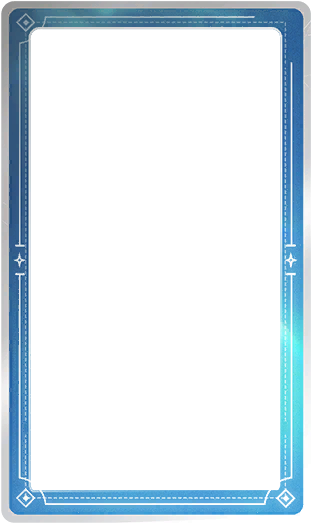
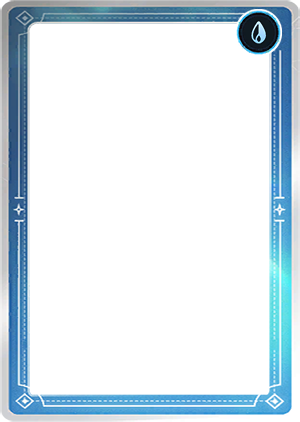
feat(Cards): rep卡远古卡面实现

diff --git a/Patches/KiboAncientVisualPatch.cs b/Patches/KiboAncientVisualPatch.cs
@@ -1,0 +1,98 @@
+using System.Reflection;
+using HarmonyLib;
+using MegaCrit.Sts2.Core.Entities.Cards;
+using MegaCrit.Sts2.Core.Models;
+using MegaCrit.Sts2.Core.Nodes.Cards;
+using STS2RitsuLib.Patching.Models;
+using STS2_Starborn.Cards.Kibo;
+using STS2_Starborn.Cards.Pile;
+
+namespace STS2_Starborn.Patches;
+
+/// <summary>
+/// Patch to make Kibo Rep cards display with Ancient card visuals while keeping Token rarity
+/// 让奇波 Rep 卡以 Ancient 卡的视觉效果显示，但保持 Token 稀有度
+/// Only applies to Rep cards (cards with [RegisterKibo] attribute), not ability cards
+/// 仅应用于 Rep 卡（带有 [RegisterKibo] 属性的卡），不影响技能卡
+/// </summary>
+public class KiboAncientVisualPatch : IPatchMethod
+{
+    public static string PatchId => "sts2_starborn_kibo_ancient_visual";
+    public static string Description => "Make Kibo Rep cards display with Ancient visual style";
+    public static bool IsCritical => false;
+
+    private static FieldInfo? _modelField;
+
+    public static ModPatchTarget[] GetTargets()
+    {
+        _modelField = AccessTools.Field(typeof(NCard), "_model");
+        return
+        [
+            new(typeof(NCard), "Reload", [])
+        ];
+    }
+
+    /// <summary>
+    /// Prefix to temporarily change Kibo Rep card rarity to Ancient during Reload
+    /// </summary>
+    public static void Prefix(NCard __instance, out CardRarity? __state)
+    {
+        __state = null;
+
+        if (_modelField == null)
+            return;
+
+        var model = _modelField.GetValue(__instance) as CardModel;
+        if (model == null)
+            return;
+
+        // Check if this is a Kibo Rep card
+        if (IsKiboRepCard(model))
+        {
+            // Store original rarity
+            __state = model.Rarity;
+
+            // Temporarily change to Ancient for visual rendering
+            // This is a hack but it's the cleanest way to make NCard render it as Ancient
+            var rarityField = AccessTools.Field(typeof(CardModel), "<Rarity>k__BackingField");
+            if (rarityField != null)
+            {
+                rarityField.SetValue(model, CardRarity.Ancient);
+            }
+        }
+    }
+
+    /// <summary>
+    /// Postfix to restore original rarity after Reload
+    /// </summary>
+    public static void Postfix(NCard __instance, CardRarity? __state)
+    {
+        if (__state == null || _modelField == null)
+            return;
+
+        var model = _modelField.GetValue(__instance) as CardModel;
+        if (model == null)
+            return;
+
+        // Restore original rarity
+        var rarityField = AccessTools.Field(typeof(CardModel), "<Rarity>k__BackingField");
+        if (rarityField != null)
+        {
+            rarityField.SetValue(model, __state.Value);
+        }
+    }
+
+    /// <summary>
+    /// Check if the card model is a Kibo Rep card (not an ability card)
+    /// 检查卡牌是否为奇波 Rep 卡（而非技能卡）
+    /// </summary>
+    private static bool IsKiboRepCard(CardModel? model)
+    {
+        if (model is not KiboCard)
+            return false;
+
+        // Use KiboPileManager's method to check if it's a Rep card
+        // Rep cards have the [RegisterKibo] attribute
+        return KiboPileManager.IsRepCardType(model.GetType());
+    }
+}

diff --git a/Relics/StarBoundCardRelic.cs b/Relics/StarBoundCardRelic.cs
@@ -4,7 +4,7 @@ using System.Threading.Tasks;
 using MegaCrit.Sts2.Core.Combat;
 using MegaCrit.Sts2.Core.Commands;
 using MegaCrit.Sts2.Core.Entities.Cards;
-using MegaCrit.Sts2.Core.Entities.Creatures;
+using MegaCrit.Sts2.Core.Entities.Players;
 using MegaCrit.Sts2.Core.Entities.Relics;
 using MegaCrit.Sts2.Core.GameActions.Multiplayer;
 using MegaCrit.Sts2.Core.Localization.DynamicVars;
@@ -18,6 +18,7 @@ using STS2RitsuLib.Scaffolding.Characters;
 using STS2RitsuLib.Scaffolding.Content;
 using STS2_Starborn.Cards;
 using STS2_Starborn.Cards.Kibo;
+using STS2_Starborn.Cards.Event;
 using STS2_Starborn.Cards.Pile;
 using STS2_Starborn.Character;
 using STS2_Starborn.Combat;
@@ -67,26 +68,23 @@ public class StarBoundCardRelic : StarbornRelic, IAutoTriggerListener
         if (!ShouldOverrideForKiboEvent()) return currentEvent;
         return ModelDb.Event<KiboStarterEvent>();
     }
-    public override async Task BeforeCombatStart()
+    public override async Task BeforeHandDraw(
+        Player player, PlayerChoiceContext choiceContext, ICombatState combatState)
     {
+        if (player != base.Owner || base.Owner.PlayerCombatState?.TurnNumber != 1)
+            return;
+
         var data = KiboRunData.Get(base.Owner);
         if (data?.ActiveKiboTypeId == null) return;
         if (!KiboTypeId.TryParse(data.ActiveKiboTypeId, out var typeId)) return;
 
-        var activePile = KiboPileManager.GetActivePile(base.Owner);
-        if (activePile != null && activePile.Cards.Count > 0) return;
+        // 直接召唤：InitializeForCombat 已执行，combat storage 已就绪，不会重复创建
+        await KiboCmd.Summon(choiceContext, base.Owner, typeId);
 
-        // 1. 保留原有的直接召唤逻辑
-        await KiboCmd.Summon(new BlockingPlayerChoiceContext(), base.Owner, typeId);
-
-        // 2. 添加召唤卡到手牌
-        var canonical = ModelDb.GetById<CardModel>(ModelDb.GetId<Cards.Event.SummonStarterKiboCard>());
-        var combatState = base.Owner.Creature.CombatState;
-        if (combatState != null)
-        {
-            var summonCard = combatState.CreateCard(canonical, base.Owner);
-            await CardPileCmd.AddGeneratedCardToCombat(summonCard, PileType.Hand, base.Owner);
-        }
+        // 添加召唤牌到手牌（参考 RadiantPearl 模式）
+        var summonCard = combatState.CreateCard<SummonStarterKiboCard>(base.Owner);
+        await CardPileCmd.AddGeneratedCardsToCombat(
+            new List<CardModel> { summonCard }, PileType.Hand, base.Owner);
     }
 
     // IAutoTriggerListener 实现

diff --git a/Combat/ElementMarkState.cs b/Combat/ElementMarkState.cs
@@ -1,5 +1,6 @@
 using System;
 using MegaCrit.Sts2.Core.Entities.Players;
+using MegaCrit.Sts2.Core.Models;
 using STS2_Starborn.Element;
 
 namespace STS2_Starborn.Combat;
@@ -11,8 +12,7 @@ public static class ElementMarkState
     public const int MaxSealStacks = ElementMarkManager.MaxSealStacks;
     public const int ThresholdStacks = ElementMarkManager.ThresholdStacks;
 
-    private static ElementMarkManager? _manager;
-    internal static ElementMarkManager Manager => _manager ??= new ElementMarkManager();
+    internal static ElementMarkManager Manager => ModelDb.Singleton<ElementMarkManager>();
 
     public static event Action? MarksChanged;
     public static void NotifyMarksChanged() => MarksChanged?.Invoke();

diff --git a/Cards/Uncommon/ConvergeCard.cs b/Cards/Uncommon/ConvergeCard.cs
@@ -22,7 +22,7 @@ public sealed class ConvergeCard() : StarbornCard(
         new CalculationBaseVar(9m),
         new ExtraDamageVar(2m),
         new CalculatedDamageVar(ValueProp.Move).WithMultiplier((_, _) =>
-            ElementMarkManager.GetTuningTotalCount() + ElementMarkManager.GetOverloadTotalCount()),
+            ElementMarkManager.GetTuningTotalCount(Owner) + ElementMarkManager.GetOverloadTotalCount(Owner)),
     ];
 
     protected override async Task OnPlay(PlayerChoiceContext choiceContext, CardPlay cardPlay)

diff --git a/Entry.cs b/Entry.cs
@@ -56,6 +56,7 @@ public class Entry
         patcher.RegisterPatch<KiboLoadPatch>();
         patcher.RegisterPatch<CompactCardGridHoverTipPatch>();
         patcher.RegisterPatch<BurnPowerBloodBarPatch>();
+        patcher.RegisterPatch<KiboAncientVisualPatch>();
 #if DEBUG
         patcher.RegisterPatch<StarbornDebugPanelPatch>();
 #endif

diff --git a/Readme.md b/Readme.md
@@ -53,14 +53,6 @@
 - [x] 远古牌　　　`2 / 2`
 - [x] 事件牌　　　`3 / 3` *（暂定）*
 
-### 遗物
-- [ ] 祖赞卡之梯
-- [ ] 签到本
-- [ ] 哈库茵权戒
-- [ ] 苗鸡玩偶
-- [ ] 飞行鞍具
-- [ ] 其他角色遗物  （还未定）
-
 ### 其他
 - [x] 彩蛋事件
 - [x] 御三家选择事件
@@ -170,7 +162,7 @@
 | 顺风 （Tailwind） | 2 | 能力 | **奇波：森彩灵蝶**。回合开始时**调谐**0风。 | 固有 |
 | 狩猎姿态 （HunterStance） | 1 | 技能 | 本回合你每打出一张攻击牌，获得1层当前主属性。 | 耗能-1 |
 | 不屈之心 （IndomitableHeart） | 2 | 技能 | 如果这张牌在本场战斗首次打出，获得1层缓冲。获得9点格挡。如果怪物的攻击被完全格挡，将其击晕。 | 9 -> 13 |
-| 
+| 误打误撞 （Serendipity） | 0 | 技能 | **奇波：菇噜噜**。选择一张手牌，将其打出并使其费用在0到3之间随机变化。 | **保留** |
 
 
 
@@ -204,18 +196,18 @@
 | 绒心布里尼 （Downybrinny） | -1 | 能力 | Rep卡 |  |
 | 绒心炸弹 （DownyBomb） | 2 | 攻击 | **奇波战技**。获得4层光属性印记。超限1光。 | 4 -> 5 |
 | 隐于彩虹 （HiddenInRainbow） | 1 | 技能 | **奇波特技**。获得1/1当前属性印记。获得2点能量。抽2张牌。随机换上一只**奇波**。 | 3 -> 5 |
-| 迅狼 （Swiftwolf） | 1 | 能力 | Rep卡 |  |
+| 迅狼 （Swiftwolf） | -1 | 能力 | Rep卡 |  |
 | 爪击 （Claw） | 1 | 攻击 | **奇波战技**。对随机一名敌人造成3点伤害。 | 3 -> 4  |
 | 狼嚎 （Howl） | 1 | 技能 | **奇波战技**。下回合使你获得1点临时力量。 | 1 -> 2 |
 | 啃咬 （Gnaw） | 1 | 攻击 | **奇波战技**。对随机一名敌人造成4点伤害。施加1层易伤。 | 1 -> 2 |
 | 围攻 （Pincer） | 1 | 攻击 | **奇波特技**。对随机一名敌人造成3点伤害3次。 | 3伤 -> 4伤 |
-| 覆甲犰 （ArmoredPangolin） | 1 | 能力 | Rep卡 |  |
+| 覆甲犰 （ArmoredPangolin） | -1 | 能力 | Rep卡 |  |
 | 惯性滚动 （InertiaRoll） | 1 | 攻击 | **奇波战技**。造成4点伤害，**弹跳**2次。 | 4 -> 6 | 
 | 滚动火球 （RollingFire） | 1 | 攻击 | **奇波特技**。造成5点伤害，**弹跳**3次。每次造成伤害获得1层火属性印记。 | 4 -> 6 |
-| 蔓灵偶 （VineDoll） | 1 | 能力 | Rep卡 |  |
+| 蔓灵偶 （VineDoll） | -1 | 能力 | Rep卡 |  |
 | 神风 （Kamikaze） | 1 | 技能 | **奇波战技**。对所有敌人造成20点伤害。将蔓灵偶移出战斗。 | 20 -> 30|
 | 强袭 （Verdant） | 1 | 技能 | **奇波特技**。对所有敌人造成30点伤害。将蔓灵偶移出战斗。 | 30 -> 45 |
-| 蔓音花 （MelodiousVine） | 1 | 能力 | Rep卡 |  |
+| 蔓音花 （MelodiousVine） | -1 | 能力 | Rep卡 |  |
 | 蔓音回响 （MelodiousEcho） | 2 | 技能 | **奇波战技**。获得4点格挡。在下个回合获得4点格挡。| 4 -> 6 |
 | 种子风暴 （SeedStorm） | 2 | 攻击 | **奇波战技**。对所有敌人造成6点伤害。每有一个敌人获得1草。 | 6 -> 9 |
 | 芳香疗法 （Aromatherapy） | 3 | 技能 | **奇波特技**。移除随机一张状态牌。 | 一张 -> 所有 |